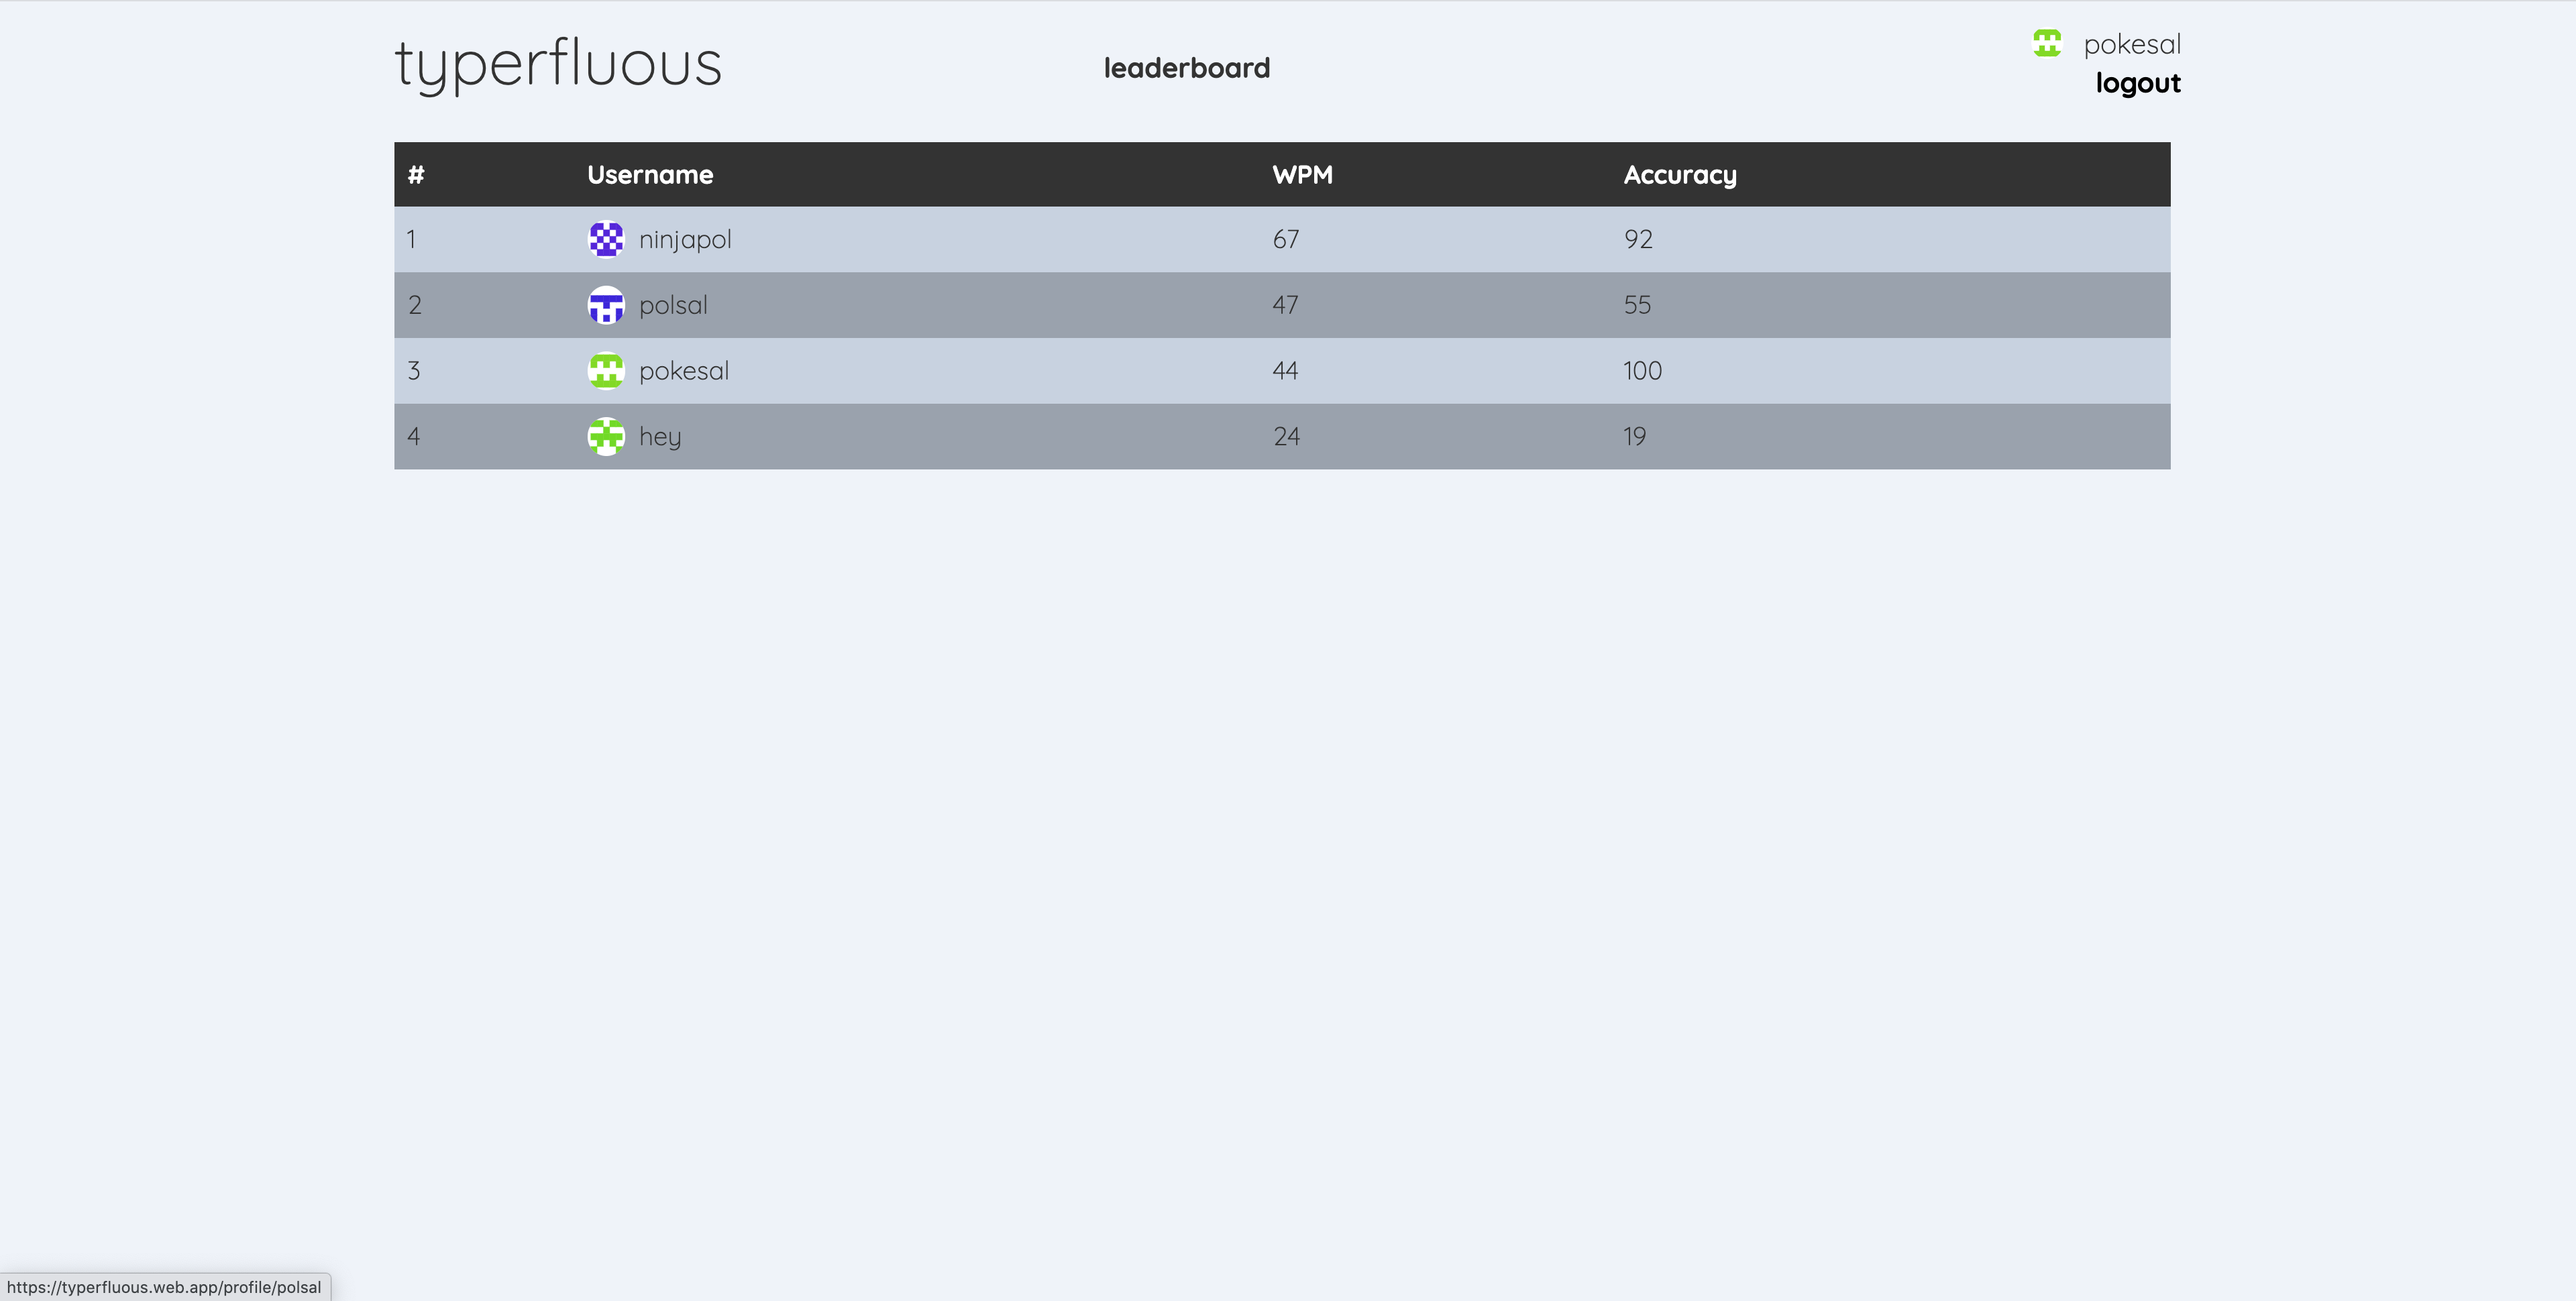
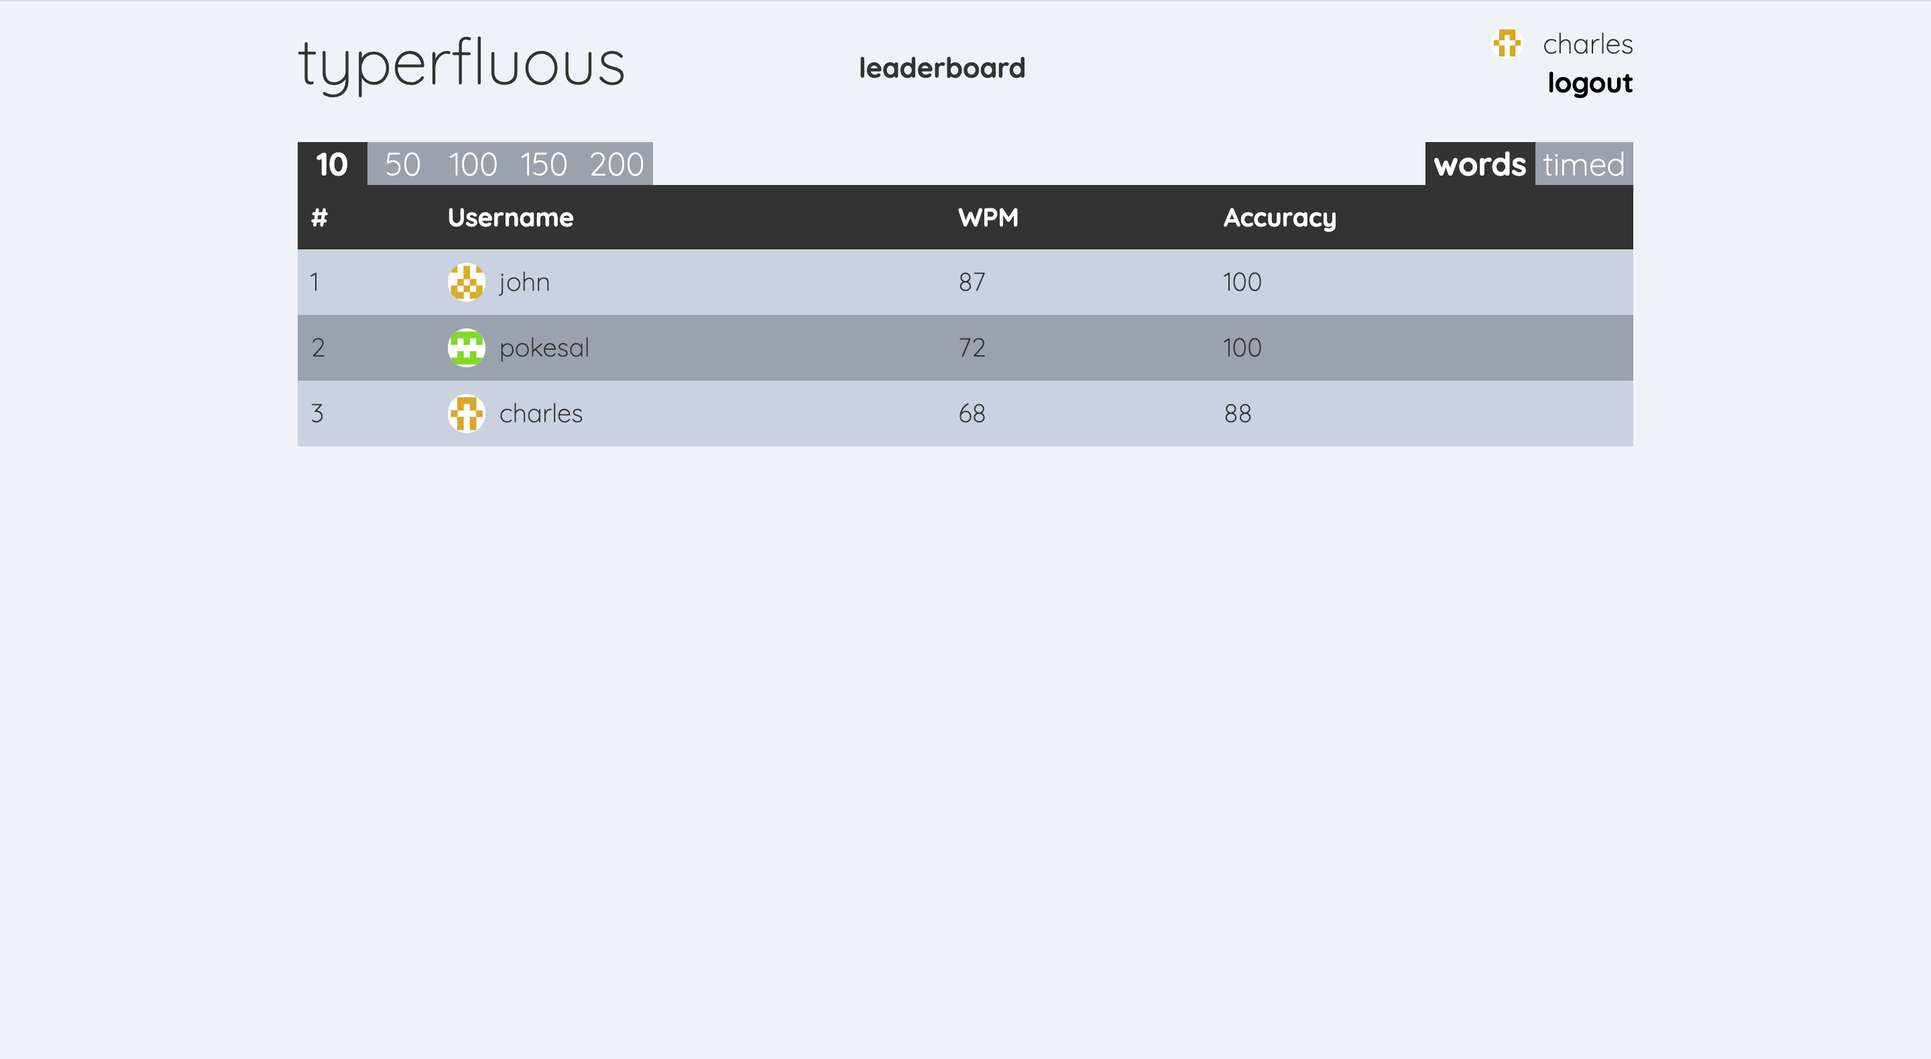
Updated the README

Changed region(s): [[0.1562, 0.0, 0.8438, 0.4342], [0.0, 0.9614, 0.125, 1.0]]

diff --git a/README.md b/README.md
@@ -10,7 +10,7 @@ Users can create an account to save their best times. Best and average statistic
 
 <img src="/static/typerfluous-profile.png">
 
-The leaderboard lists the users with the highest wpm scores across any test on the site and provides a way for users to view the profiles of other users.
+The leaderboard lists the users with the highest wpm and accuracy given the test category and provides a way for users to view the profiles of other users.
 
 <img src="/static/typerfluous-leaderboard.png">
 
